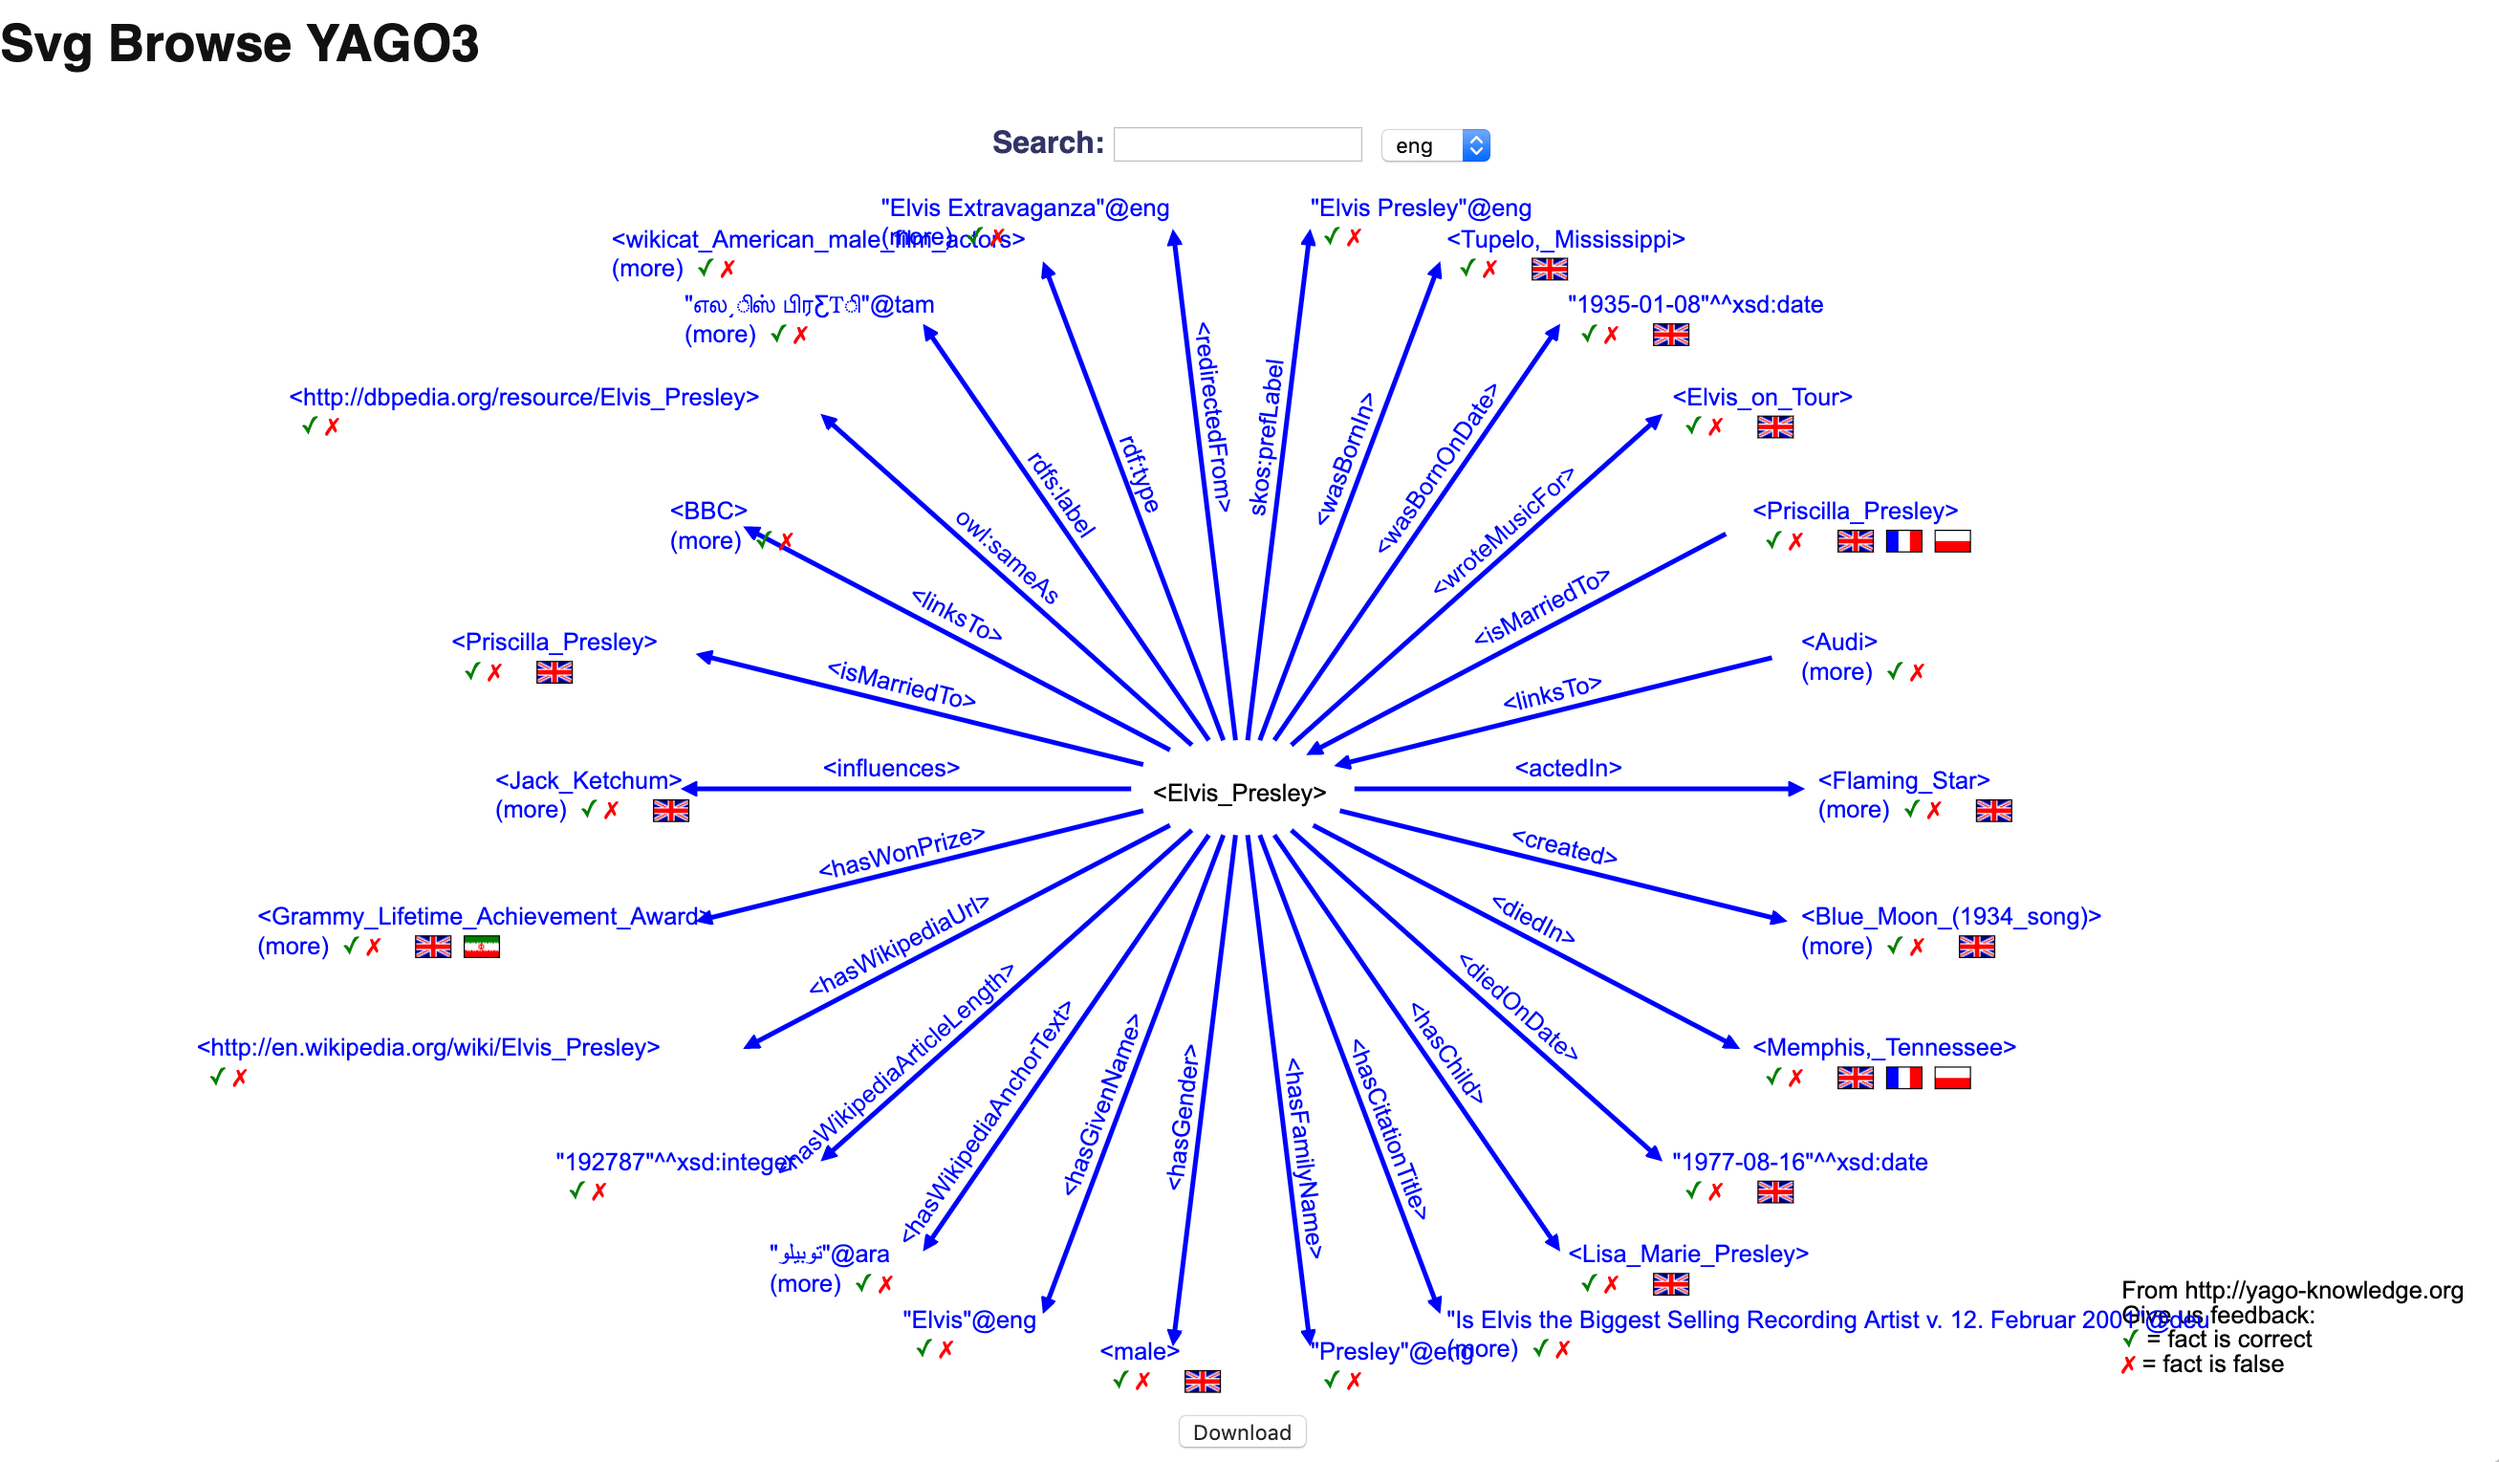
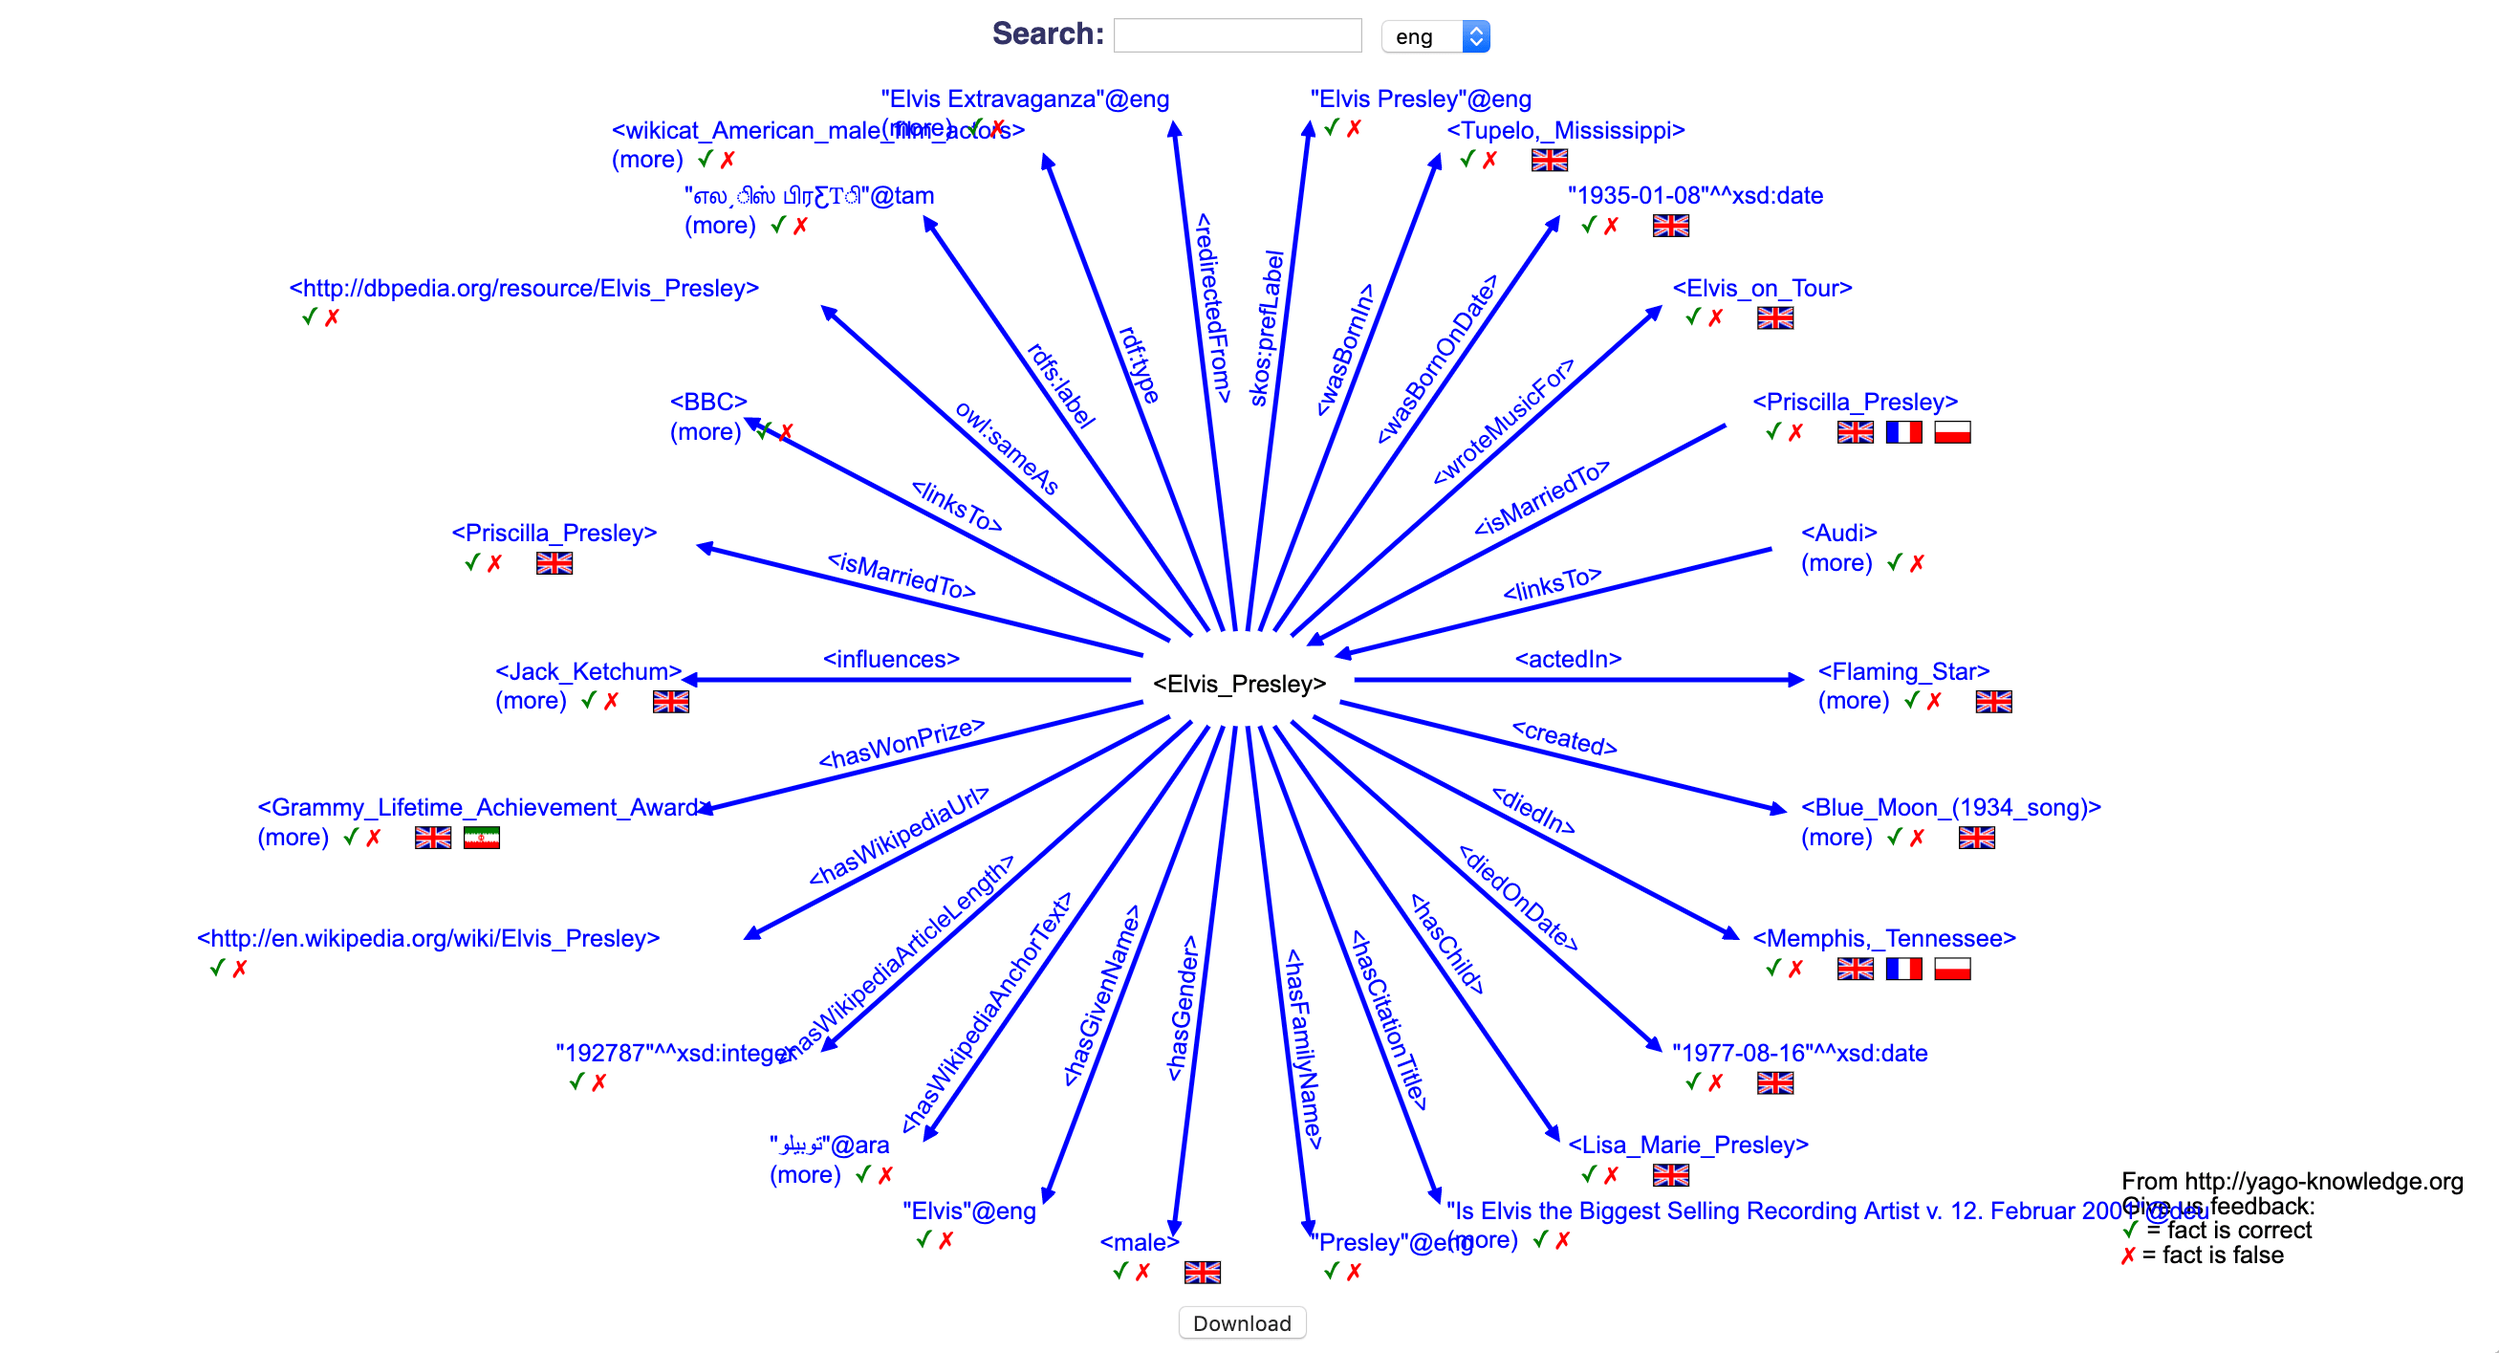
Added some changes from Fabian's e-mail:
- remove the headline from the demo image
- add the newest two news items https://www.mpi-inf.mpg.de/departments/databases-and-information-systems/research/yago-naga/yago/
- replace the top text in SPARQL by "YAGO can be queried by a SPARQL API <a href=https://linkeddata1.calcul.u-psud.fr/sparql>here</a>. You can also fire a SPARQL query directly in the field below."
- remove the empty line before the headline in the boxes
- add the YAGO logo visibly in "Download YAGO logo", describe the dimensions and the size of each variant, and add a use case ("for use on the Web") -- maybe all of this in a table

diff --git a/template/style.css b/template/style.css
@@ -149,6 +149,10 @@ CONTENT
     margin-bottom: 1rem;
 }
 
+.code-container h2 {
+    margin-top: 1rem;
+}
+
 
 /*
 news on the front page

diff --git a/content/downloads/logo.php b/content/downloads/logo.php
@@ -1,12 +1,66 @@
 <h1>Yago Logo</h1>
 
-<p>
-    Here you can download Yago logo in <a href="<?php site_url() ?>/assets/images/yago-logos/yago_logo.png" download>.png</a>,
-    <a href="<?php site_url() ?>/assets/images/yago-logos/yago_logo_small.png" download>.png(small)</a>, <a
-            href="<?php site_url() ?>/assets/images/yago-logos/yago_logo.jpg" download>.jpg</a>, <a
-            href="<?php site_url() ?>/assets/images/yago-logos/yago_logo.pdf" download>.pdf</a> and <a
-            href="<?php site_url() ?>/assets/images/yago-logos/yago-logo.svg" download>.svg</a>.
-</p>
+<!--<p>-->
+<!--    Here you can download Yago logo in <a href="--><?php //site_url() ?><!--/assets/images/yago-logos/yago_logo.png" download>.png</a>,-->
+<!--    <a href="--><?php //site_url() ?><!--/assets/images/yago-logos/yago_logo_small.png" download>.png(small)</a>, <a-->
+<!--            href="--><?php //site_url() ?><!--/assets/images/yago-logos/yago_logo.jpg" download>.jpg</a>, <a-->
+<!--            href="--><?php //site_url() ?><!--/assets/images/yago-logos/yago_logo.pdf" download>.pdf</a> and <a-->
+<!--            href="--><?php //site_url() ?><!--/assets/images/yago-logos/yago-logo.svg" download>.svg</a>.-->
+<!--</p>-->
+
+<table>
+    <thead>
+    <tr>
+        <td>Type</td>
+        <td>Dimensions</td>
+        <td>Filesize</td>
+        <td>Best used for</td>
+        <td>Download</td>
+    </tr>
+    </thead>
+    <tbody>
+    <tr>
+        <td>PNG</td>
+        <td>3500x1808 (px)</td>
+        <td>76kB</td>
+        <td>web</td>
+        <td><a href="<?php site_url() ?>/assets/images/yago-logos/yago_logo.png" download>.png</a></td>
+    </tr>
+
+    <tr>
+        <td>PNG</td>
+        <td>1167x603 (px)</td>
+        <td>24kB</td>
+        <td>web</td>
+        <td><a href="<?php site_url() ?>/assets/images/yago-logos/yago_logo_small.png" download>.png</a></td>
+    </tr>
+
+    <tr>
+        <td>JPG</td>
+        <td>2362x1181 (px)</td>
+        <td>457kB</td>
+        <td>print</td>
+        <td><a href="<?php site_url() ?>/assets/images/yago-logos/yago_logo.jpg" download>.jpg</a></td>
+    </tr>
+
+    <tr>
+        <td>PDF</td>
+        <td>vectorized</td>
+        <td>123kB</td>
+        <td>editing</td>
+        <td><a href="<?php site_url() ?>/assets/images/yago-logos/yago_logo.pdf" download>.pdf</a></td>
+    </tr>
+
+    <tr>
+        <td>SVG</td>
+        <td>vectorized</td>
+        <td>11kB</td>
+        <td>web</td>
+        <td><a href="<?php site_url() ?>/assets/images/yago-logos/yago-logo.svg" download>.svg</a></td>
+    </tr>
+
+    </tbody>
+</table>
 
 <p>
     The YAGO Logo is licensed under a Creative Commons Attribution Non-Commercial No-Derivatives 3.0 License by the YAGO

diff --git a/content/home.php b/content/home.php
@@ -10,6 +10,25 @@
 </a>
 
 <h2>News</h2>
+
+<div class="news_item">
+    <div class="news_time">June, 2018</div>
+    <div class="news_text">
+        We are working on a new version and a new Web page of YAGO, stay tuned!
+    </div>
+</div>
+
+
+<div class="news_item">
+    <div class="news_time">May, 2018</div>
+    <div class="news_text">
+        The original YAGO paper (WWW 2007) has won the Seoul Test of Time Award of The Web Conference 2018 (WWW
+        2018).
+        For more details check the <a rel="noreferrer noopener"
+                                      href="https://www.mpi-inf.mpg.de/news/press-releases/2018/forscher-des-saarbruecker-max-planck-instituts-von-der-world-wide-web-conference-fuer-pionierarbeit-geehrt/">webpage</a>.
+    </div>
+</div>
+
 <div class="news_item">
     <div class="news_time">August 31, 2017</div>
     <div class="news_text">YAGO goes Open Source! Ten years after the first YAGO publication, the YAGO code is now
@@ -17,38 +36,46 @@
         work with. Get it on GitHub!
     </div>
 </div>
+
 <div class="news_item">
     <div class="news_time">August 22, 2017</div>
     <div class="news_text">The YAGO2 paper published in the Artificial Intelligence Journal (AIJ) receives the AIJ
         Prominent Paper Award.
     </div>
 </div>
+
 <div class="news_item">
     <div class="news_time">September 15, 2015</div>
     <div class="news_text">An evaluated version of YAGO3 is available for download.</div>
 </div>
+
 <div class="news_item">
     <div class="news_time">March 24, 2015</div>
     <div class="news_text">YAGO3 is released for download.</div>
 </div>
+
 <div class="news_item">
     <div class="news_time">October 14, 2014</div>
     <div class="news_text">The multilingual YAGO3 was accepted for CIDR 2015.</div>
 </div>
+
 <div class="news_item">
     <div class="news_time">March 22, 2013</div>
     <div class="news_text">The demo about the functionalities of YAGO2s got accepted for WWW 2013. See the webpage for
         detailed info!
     </div>
 </div>
+
 <div class="news_item">
     <div class="news_time">Dec 3, 2012</div>
     <div class="news_text">New demo paper about YAGO2s at BTW 2013.</div>
 </div>
+
 <div class="news_item">
     <div class="news_time">Oct 16, 2012</div>
     <div class="news_text">The new version of YAGO, YAGO2s, is out! YAGO2s brings a number of exciting novelties.</div>
 </div>
+
 <div class="news_item">
     <div class="news_time">Mar 23, 2012</div>
     <div class="news_text">Our journal article on YAGO2 got accepted for the special issue of the AI journal.</div>

diff --git a/content/sparql.php b/content/sparql.php
@@ -1,10 +1,8 @@
 <div class="wrap">
     <h1>SPARQL</h1>
-    <p>Lorem ipsum dolor sit amet, consectetur adipisicing elit, sed do eiusmod tempor incididunt ut labore et dolore
-        magna aliqua. Ut enim ad minim veniam, quis nostrud exercitation ullamco laboris nisi ut aliquip ex ea commodo
-        consequat. Duis aute irure dolor in reprehenderit in voluptate velit esse cillum dolore eu fugiat nulla
-        pariatur. Excepteur sint occaecat cupidatat non proident, sunt in culpa qui officia deserunt mollit anim id est
-        laborum.</p>
+    <p>AGO can be queried by a SPARQL API <a rel="noopener noreferrer" href=https://linkeddata1.calcul.u-psud.fr/sparql>here</a>.
+        You can also
+        fire a SPARQL query directly in the field below.</p>
 </div>
 
 <div class="query-wikidata">
